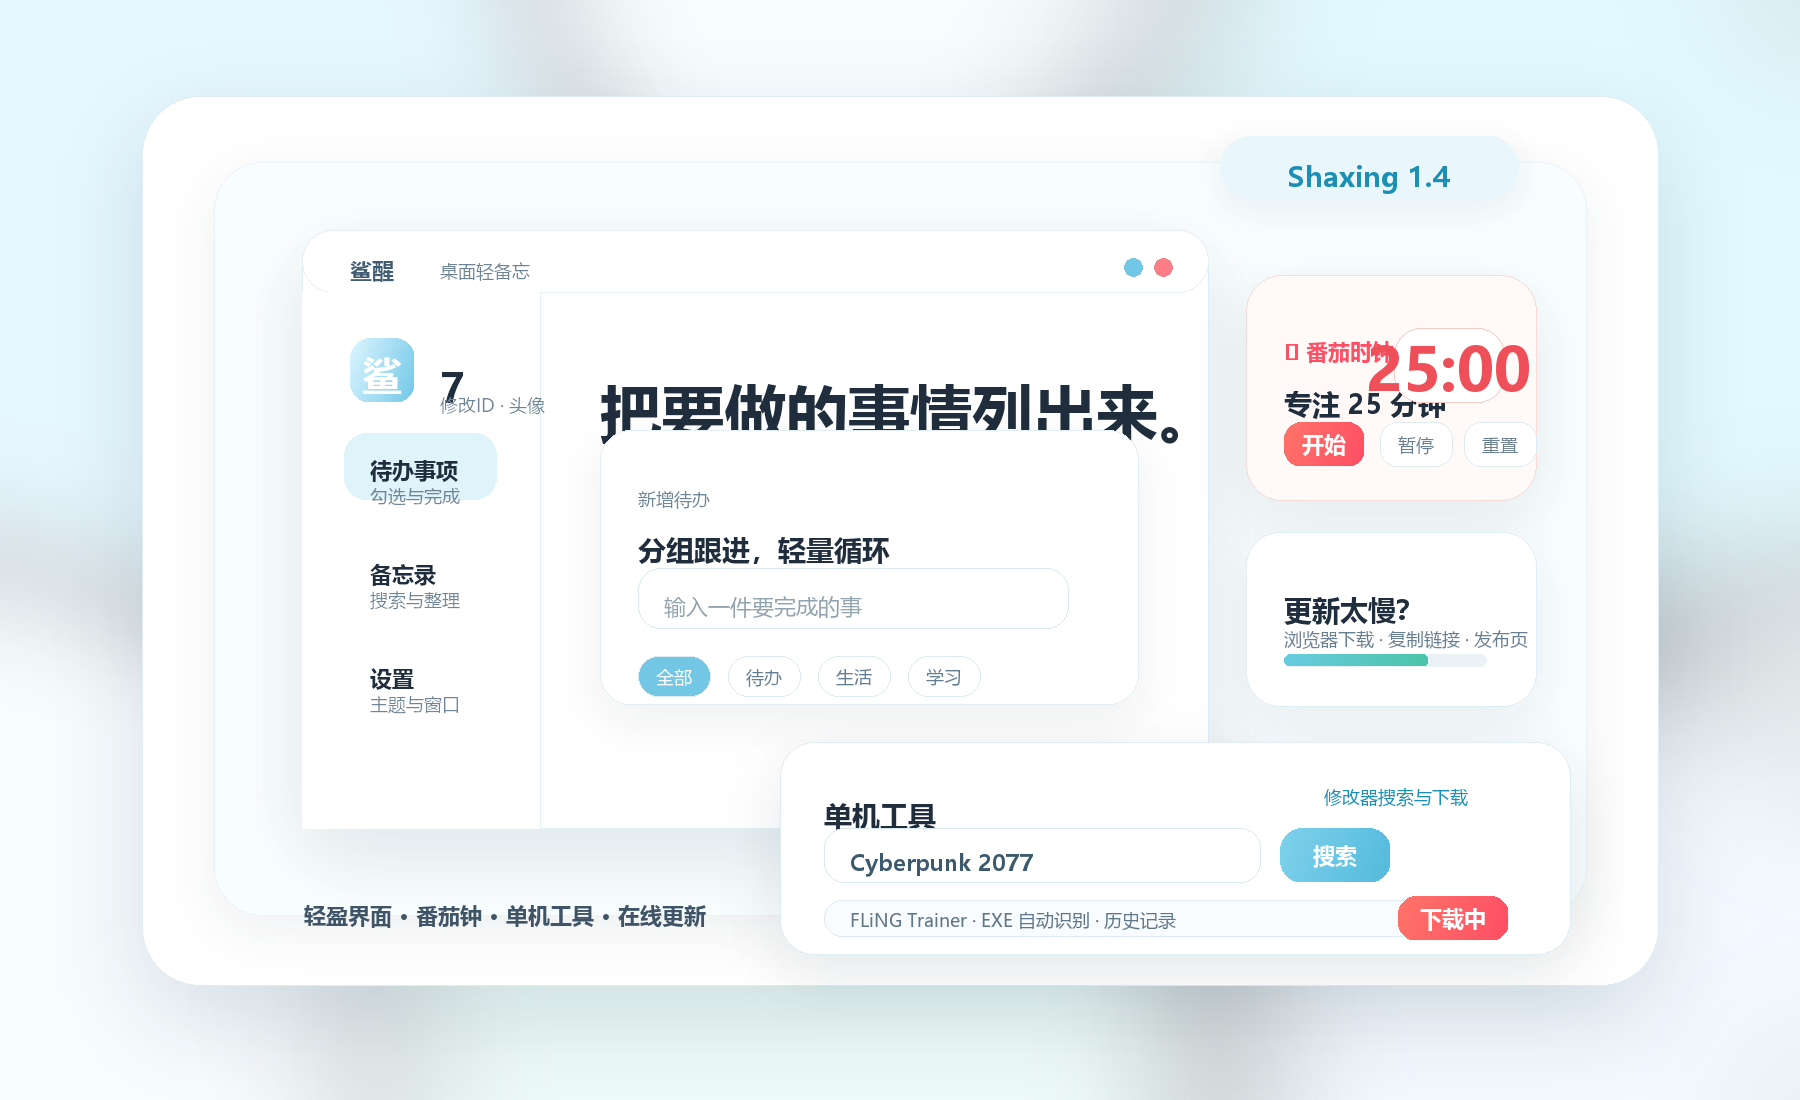
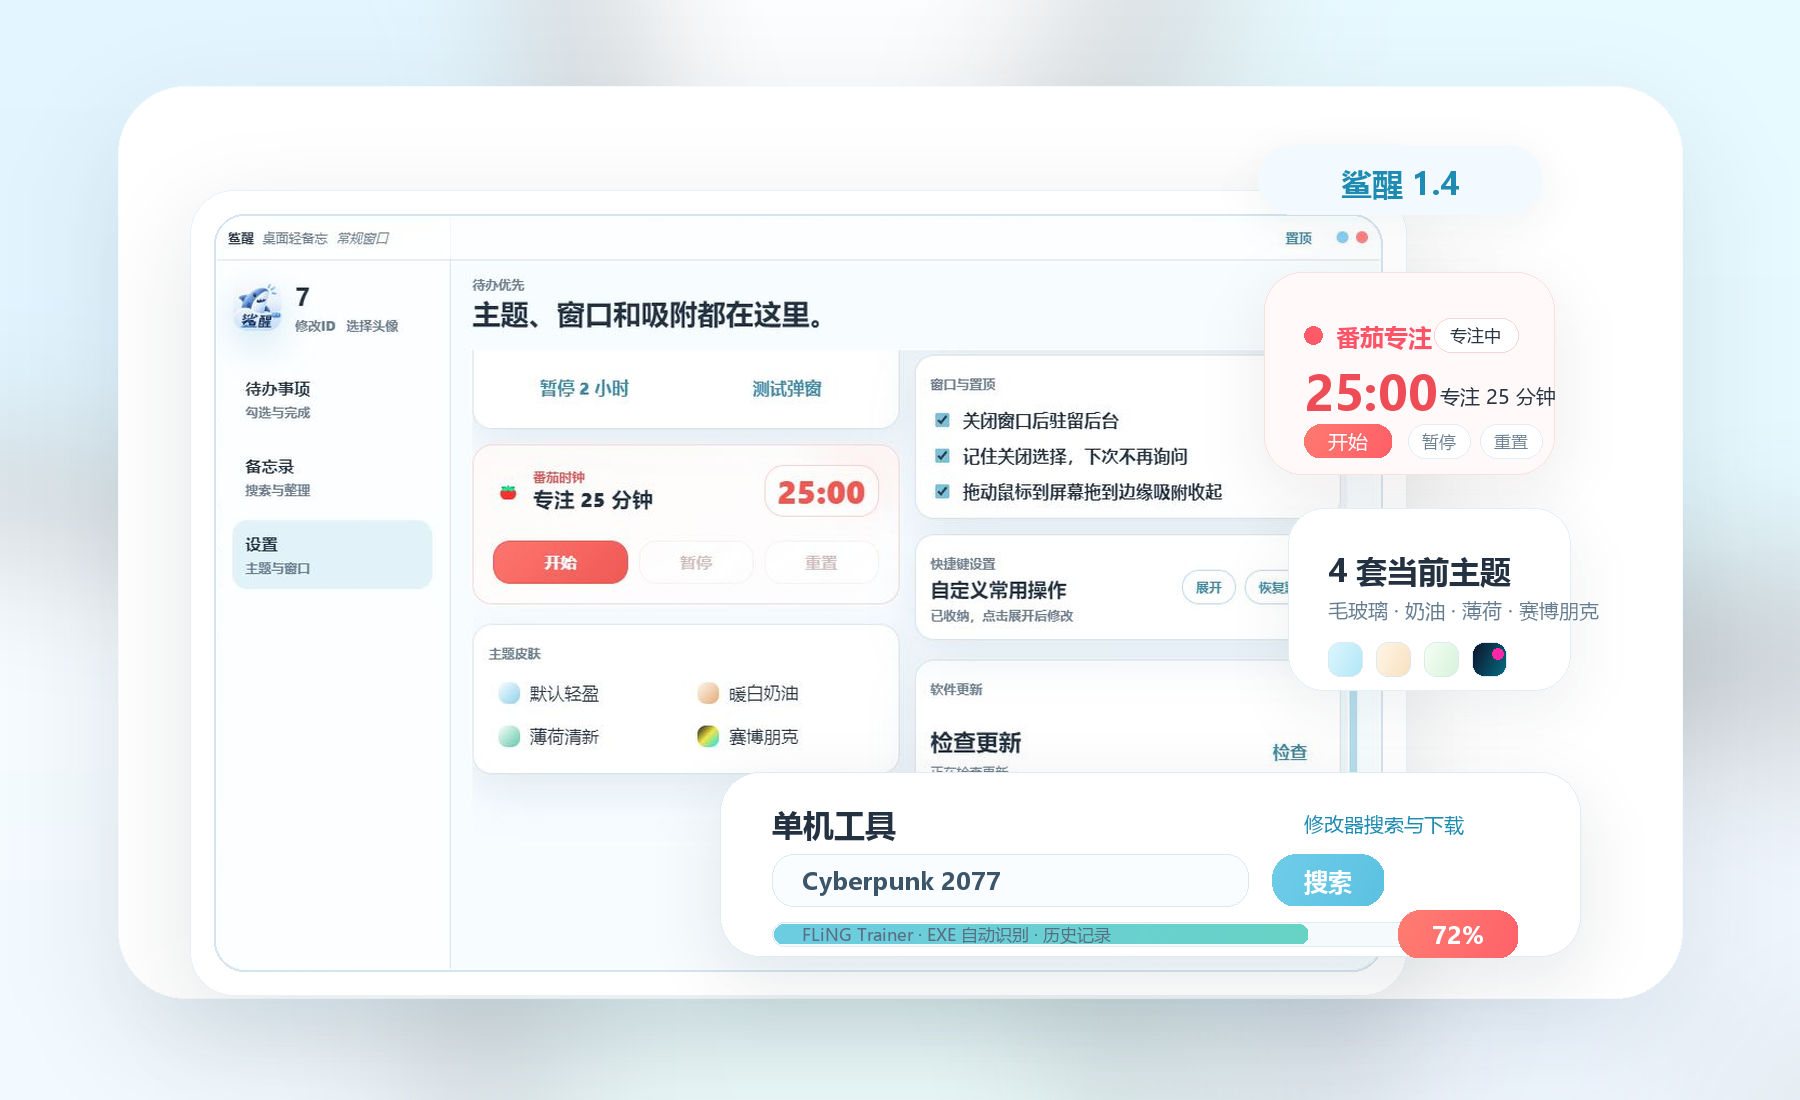
Improve homepage hero and retire pixel theme cache

diff --git a/index.html b/index.html
@@ -9,7 +9,7 @@
       content="鲨醒是一个 memo-first 的桌面备忘录工具。快速记录、轻量提醒、天气陪伴，让想法和待办不再散落。"
     />
     <link rel="stylesheet" href="./styles.css" onerror="this.onerror=null;this.href='https://yyl1509452223-coder.github.io/shaxingnew/styles.css';" />
-    <link rel="stylesheet" href="./release-pages.css?v=1.4.0" />
+    <link rel="stylesheet" href="./release-pages.css?v=1.4.0-premium-4" />
     <style id="shaxing-release-pages-inline-fallback">
 /* Shaxing release pages v1.2.11-default-glass-v7: real pixel handheld theme + compact history */
 /* 鲨醒版本页增量样式
@@ -1668,6 +1668,67 @@ body[data-theme="pixel"] .version-card.patch-version {
 @media (max-width:900px){.sx14-pomodoro-section,.sx14-pomodoro-demo{grid-template-columns:1fr}.sx14-theme-grid{grid-template-columns:1fr 1fr}.sx14-pomodoro-head{align-items:flex-start;flex-direction:column}.sx14-pomodoro-head b{font-size:36px}}
 @media (max-width:560px){.sx14-theme-grid{grid-template-columns:1fr}}
 
+
+
+/* v1.4.0 premium homepage hero: cleaner Apple/iPhone-like product presentation */
+.product-stage {
+  width: min(1180px, 94vw);
+  margin-top: 58px;
+  padding: 0;
+  border: 0;
+  border-radius: 40px;
+  background: transparent;
+  box-shadow: none;
+  backdrop-filter: none;
+}
+.product-stage img {
+  border-radius: 34px;
+  box-shadow: 0 34px 92px rgba(55, 103, 130, 0.16);
+}
+@media (max-width: 720px) {
+  .product-stage { margin-top: 40px; border-radius: 26px; }
+  .product-stage img { border-radius: 24px; }
+}
+
+/* v1.4.0 retired-theme safety: even if an old cache writes pixel, render as the default glass theme. */
+body[data-theme="pixel"] {
+  --bg-a: #f8fdff;
+  --bg-b: #e5f5fb;
+  --bg-c: #ffffff;
+  --bg: #f6fbff;
+  --white: #ffffff;
+  --blue: #76c2df;
+  --blue-strong: #3d8ba7;
+  --accent: #76c2df;
+  --accent-strong: #3d8ba7;
+  --button-text: #ffffff;
+  --text: #223241;
+  --muted: #6f8191;
+  --border: rgba(118, 156, 184, 0.24);
+  --card: rgba(255, 255, 255, 0.72);
+  --panel: rgba(255, 255, 255, 0.58);
+  --panel-strong: rgba(255, 255, 255, 0.82);
+  --shadow: 0 28px 80px rgba(55, 103, 130, 0.18);
+  --soft-shadow: 0 18px 48px rgba(63, 117, 146, 0.12);
+}
+body[data-theme="pixel"]::before,
+body[data-theme="pixel"]::after {
+  content: none !important;
+  display: none !important;
+}
+body[data-theme="pixel"] .product-stage {
+  padding: 0 !important;
+  border: 0 !important;
+  background: transparent !important;
+  box-shadow: none !important;
+}
+body[data-theme="pixel"] .product-stage img {
+  border: 0 !important;
+  border-radius: 34px !important;
+  image-rendering: auto !important;
+  box-shadow: 0 34px 92px rgba(55, 103, 130, 0.16) !important;
+}
+
 </style>
       <!-- v1.2.11-pixel-v6-app-like -->
   </head>
@@ -1717,7 +1778,7 @@ body[data-theme="pixel"] .version-card.patch-version {
 
         <div class="product-stage reveal" aria-label="鲨醒产品界面预览">
           <img
-            src="./assets/shaxing-product-v1.4.0.png?v=home-v2"
+            src="./assets/shaxing-product-v1.4.0.png?v=home-premium-4"
             alt="鲨醒 v1.4.0 新版界面展示，包含待办、番茄钟、单机工具、下载进度和更新备用下载入口"
           />
         </div>
@@ -1956,7 +2017,7 @@ body[data-theme="pixel"] .version-card.patch-version {
       <p>轻盈、漂亮、低打扰的桌面备忘录。by 应用程序的七彩鲨鱼</p>
     </footer>
 
-    <script src="./script.js" onerror="const s=document.createElement('script');s.src='https://yyl1509452223-coder.github.io/shaxingnew/script.js';document.body.appendChild(s);"></script>
-    <script src="./release-pages.js?v=1.4.0"></script>
+    <script src="./script.js?v=1.4.0-pixel-off-4" onerror="const s=document.createElement('script');s.src='https://yyl1509452223-coder.github.io/shaxingnew/script.js?v=1.4.0-pixel-off-4';document.body.appendChild(s);"></script>
+    <script src="./release-pages.js?v=1.4.0-pixel-off-4"></script>
   </body>
 </html>

diff --git a/release-pages.css b/release-pages.css
@@ -1620,3 +1620,63 @@ body[data-theme="pixel"] .version-card.patch-version {
     border-radius: 12px;
   }
 }
+
+
+/* v1.4.0 premium homepage hero: cleaner Apple/iPhone-like product presentation */
+.product-stage {
+  width: min(1180px, 94vw);
+  margin-top: 58px;
+  padding: 0;
+  border: 0;
+  border-radius: 40px;
+  background: transparent;
+  box-shadow: none;
+  backdrop-filter: none;
+}
+.product-stage img {
+  border-radius: 34px;
+  box-shadow: 0 34px 92px rgba(55, 103, 130, 0.16);
+}
+@media (max-width: 720px) {
+  .product-stage { margin-top: 40px; border-radius: 26px; }
+  .product-stage img { border-radius: 24px; }
+}
+
+/* v1.4.0 retired-theme safety: even if an old cache writes pixel, render as the default glass theme. */
+body[data-theme="pixel"] {
+  --bg-a: #f8fdff;
+  --bg-b: #e5f5fb;
+  --bg-c: #ffffff;
+  --bg: #f6fbff;
+  --white: #ffffff;
+  --blue: #76c2df;
+  --blue-strong: #3d8ba7;
+  --accent: #76c2df;
+  --accent-strong: #3d8ba7;
+  --button-text: #ffffff;
+  --text: #223241;
+  --muted: #6f8191;
+  --border: rgba(118, 156, 184, 0.24);
+  --card: rgba(255, 255, 255, 0.72);
+  --panel: rgba(255, 255, 255, 0.58);
+  --panel-strong: rgba(255, 255, 255, 0.82);
+  --shadow: 0 28px 80px rgba(55, 103, 130, 0.18);
+  --soft-shadow: 0 18px 48px rgba(63, 117, 146, 0.12);
+}
+body[data-theme="pixel"]::before,
+body[data-theme="pixel"]::after {
+  content: none !important;
+  display: none !important;
+}
+body[data-theme="pixel"] .product-stage {
+  padding: 0 !important;
+  border: 0 !important;
+  background: transparent !important;
+  box-shadow: none !important;
+}
+body[data-theme="pixel"] .product-stage img {
+  border: 0 !important;
+  border-radius: 34px !important;
+  image-rendering: auto !important;
+  box-shadow: 0 34px 92px rgba(55, 103, 130, 0.16) !important;
+}

diff --git a/script.js b/script.js
@@ -9,6 +9,27 @@ const themeNames = {
   cyber: "赛博朋克 2077",
 };
 
+const SITE_THEME_KEY = "shaxing-site:theme";
+const RETIRED_THEME_KEYS = [
+  "shaxing-site:theme-extended",
+  "shaxing-site:default-glass-reset-v7",
+];
+
+const normalizeSavedTheme = () => {
+  try {
+    const savedTheme = localStorage.getItem(SITE_THEME_KEY);
+    const hasRetiredPixel =
+      savedTheme === "pixel" ||
+      RETIRED_THEME_KEYS.some((key) => localStorage.getItem(key) === "pixel");
+
+    RETIRED_THEME_KEYS.forEach((key) => localStorage.removeItem(key));
+
+    if (hasRetiredPixel || (savedTheme && !themeNames[savedTheme])) {
+      localStorage.setItem(SITE_THEME_KEY, "glass");
+    }
+  } catch (_) {}
+};
+
 const updateHeader = () => {
   header.classList.toggle("is-scrolled", window.scrollY > 18);
 };
@@ -39,7 +60,9 @@ revealItems.forEach((item, index) => {
 const setTheme = (theme) => {
   const nextTheme = themeNames[theme] ? theme : "glass";
   document.body.dataset.theme = nextTheme;
-  localStorage.setItem("shaxing-site:theme", nextTheme);
+  try {
+    localStorage.setItem(SITE_THEME_KEY, nextTheme);
+  } catch (_) {}
 
   themeButtons.forEach((button) => {
     const isActive = button.dataset.themePick === nextTheme;
@@ -52,7 +75,12 @@ themeButtons.forEach((button) => {
   button.addEventListener("click", () => setTheme(button.dataset.themePick));
 });
 
-setTheme(localStorage.getItem("shaxing-site:theme") || "glass");
+normalizeSavedTheme();
+try {
+  setTheme(localStorage.getItem(SITE_THEME_KEY) || "glass");
+} catch (_) {
+  setTheme("glass");
+}
 
 const weatherTypes = ["cloud", "clear", "rain", "thunder", "fog"];
 let weatherIndex = 0;

diff --git a/release-pages.js b/release-pages.js
@@ -171,6 +171,7 @@
       localStorage.setItem(SITE_THEME_KEY, DEFAULT_THEME);
     }
     localStorage.removeItem(EXTENDED_THEME_KEY);
+    localStorage.removeItem("shaxing-site:default-glass-reset-v7");
   } catch (_) {}
 
   buttons().forEach((button) => {
